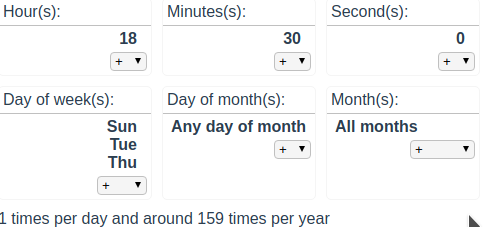
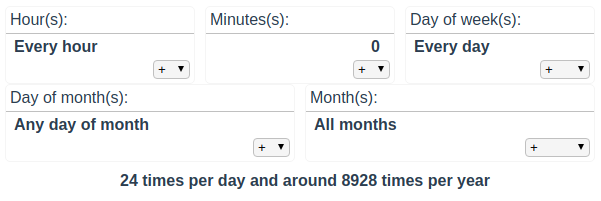
Remove seconds as not part of crontab Layout using flex-wrap

diff --git a/src/components/CrontabInput.vue b/src/components/CrontabInput.vue
@@ -30,22 +30,6 @@
       </div>
 
       <div class="col">
-        <label for>Second(s):</label>
-        <div class="items">
-          <span v-if="seconds.length === 0">Every second</span>
-          <span v-for="(s, i) in seconds" :key="s">
-            <span class="item" @click="handleDel(i, seconds)">{{ s }}</span>
-          </span>
-        </div>
-        <select @click="handleAdd($event, seconds)">
-          <option value>+</option>
-          <option v-for="v in 60" :key="v" :value="v-1" v-html="v-1"></option>
-        </select>
-      </div>
-    </div>
-
-    <div class="row">
-      <div class="col">
         <label>Day of week(s):</label>
         <div class="items">
           <span v-if="dow.length === 0">Every day</span>
@@ -101,7 +85,6 @@ export default {
     return {
       hours: [],
       minutes: [0],
-      seconds: [0],
       dow: [],
       dom: [],
       months: [],
@@ -143,9 +126,6 @@ export default {
       let m = this.minutes.length;
 	  m = m === 0 ? 60 : m;
 	  
-      let s = this.seconds.length;
-	  s = s === 0 ? 60 : s;
-	  
       let dw = this.dow.length;
 	  dw = dw === 0 ? 7 : dw;
 	  
@@ -155,7 +135,7 @@ export default {
       let my = this.months.length;
 	  my = my === 0 ? 12 : my;
 	  
-      const timesPerDay = h * m * s;
+      const timesPerDay = h * m;
       const timesPerYear = Math.round(timesPerDay * (dm * my / 7 * dw));
 
       return (
@@ -176,12 +156,12 @@ export default {
 }
 .row {
   display: flex;
+  flex-wrap: wrap;
   margin-bottom: 10px;
 }
 .col {
   flex-grow: 1;
-  flex-basis: 0;
-  max-width: 9em;
+  min-width: 9em;
   margin-right: 10px;
   padding: 4px;
   border: 1px solid whitesmoke;
@@ -219,6 +199,7 @@ export default {
   text-decoration: underline;
 }
 .info {
+    text-align: center;
     font-weight: bold;
 }
 </style>

diff --git a/src/App.vue b/src/App.vue
@@ -2,11 +2,12 @@
   <div id="app">
     <h1>CrontabInput</h1>
 
-  <div style="border: solid 1px lime;">
+  <div style="width: 600px;">
     <CrontabInput :value="value"></CrontabInput>
   </div>
+  <br>
   <div>
-    Value: {{ value }}
+    Value: <input type="text" v-model="value">
   </div>
 
   </div>
